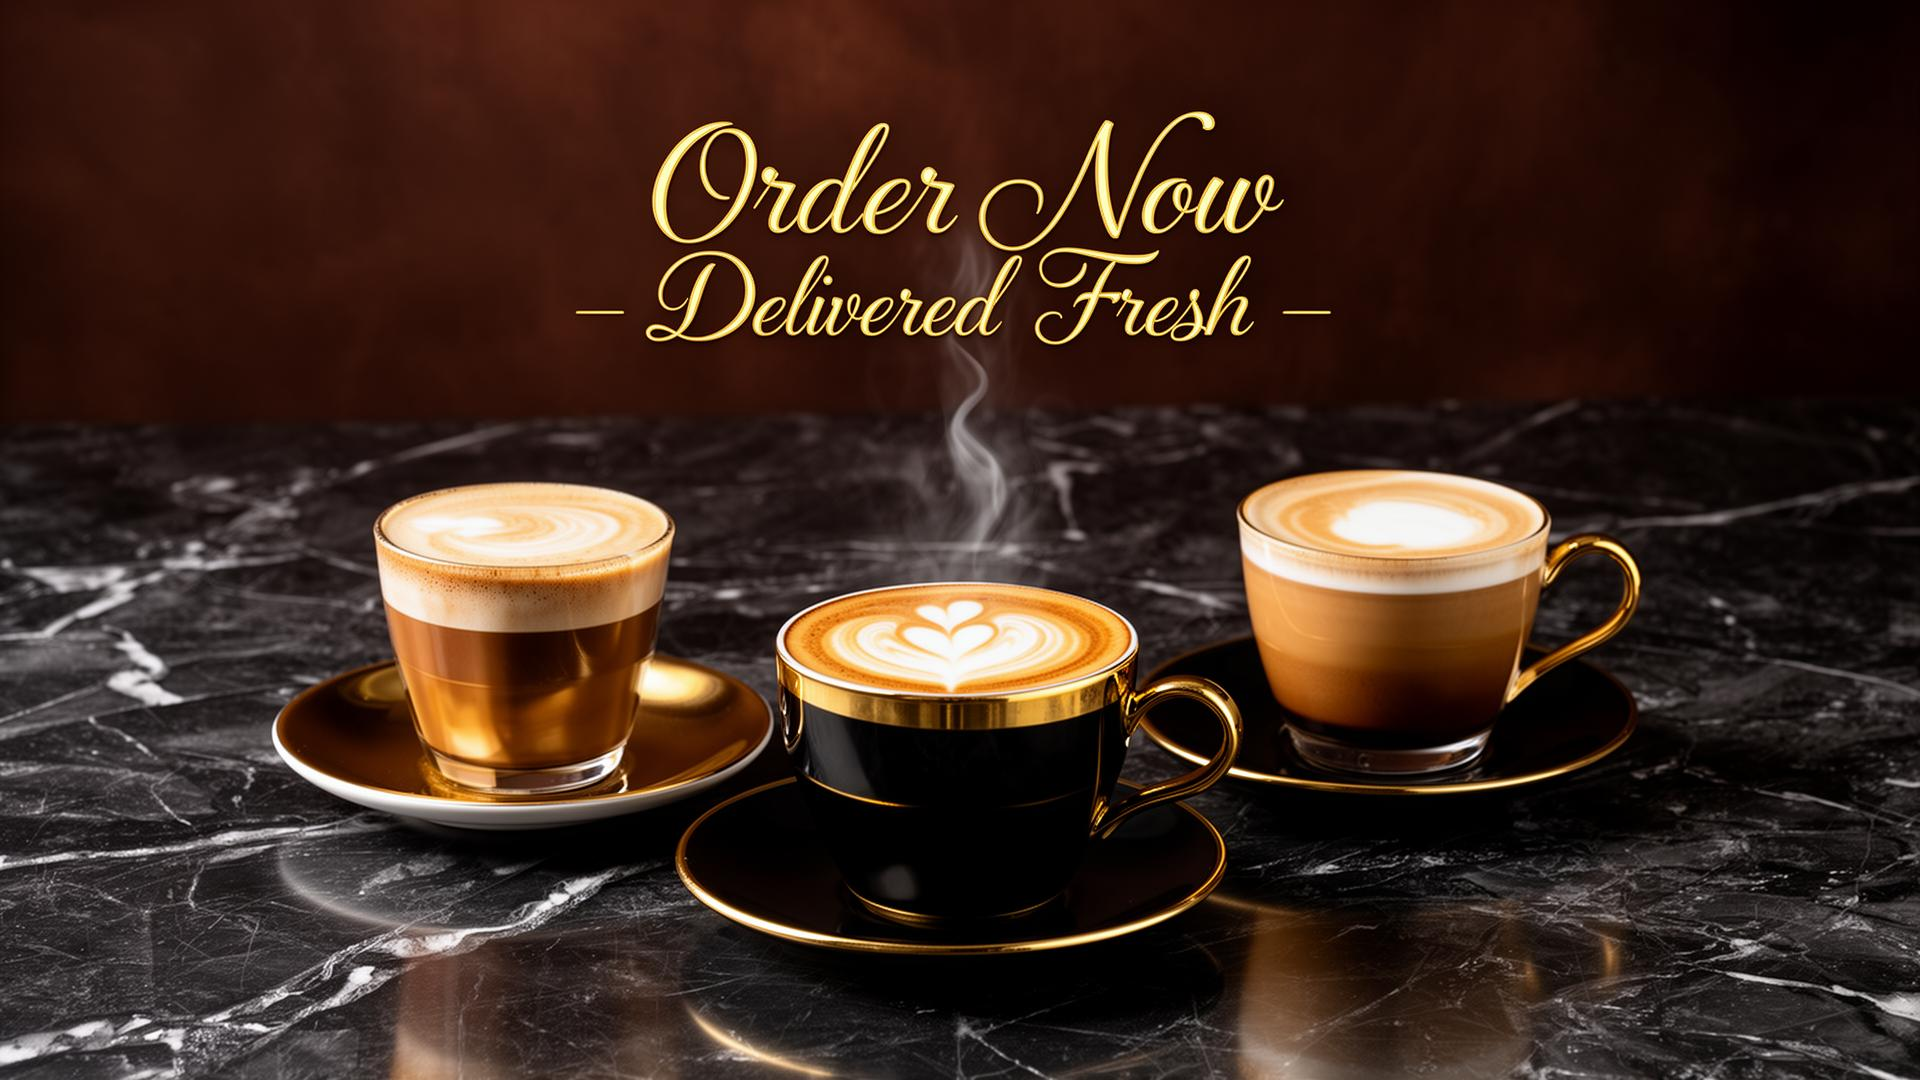
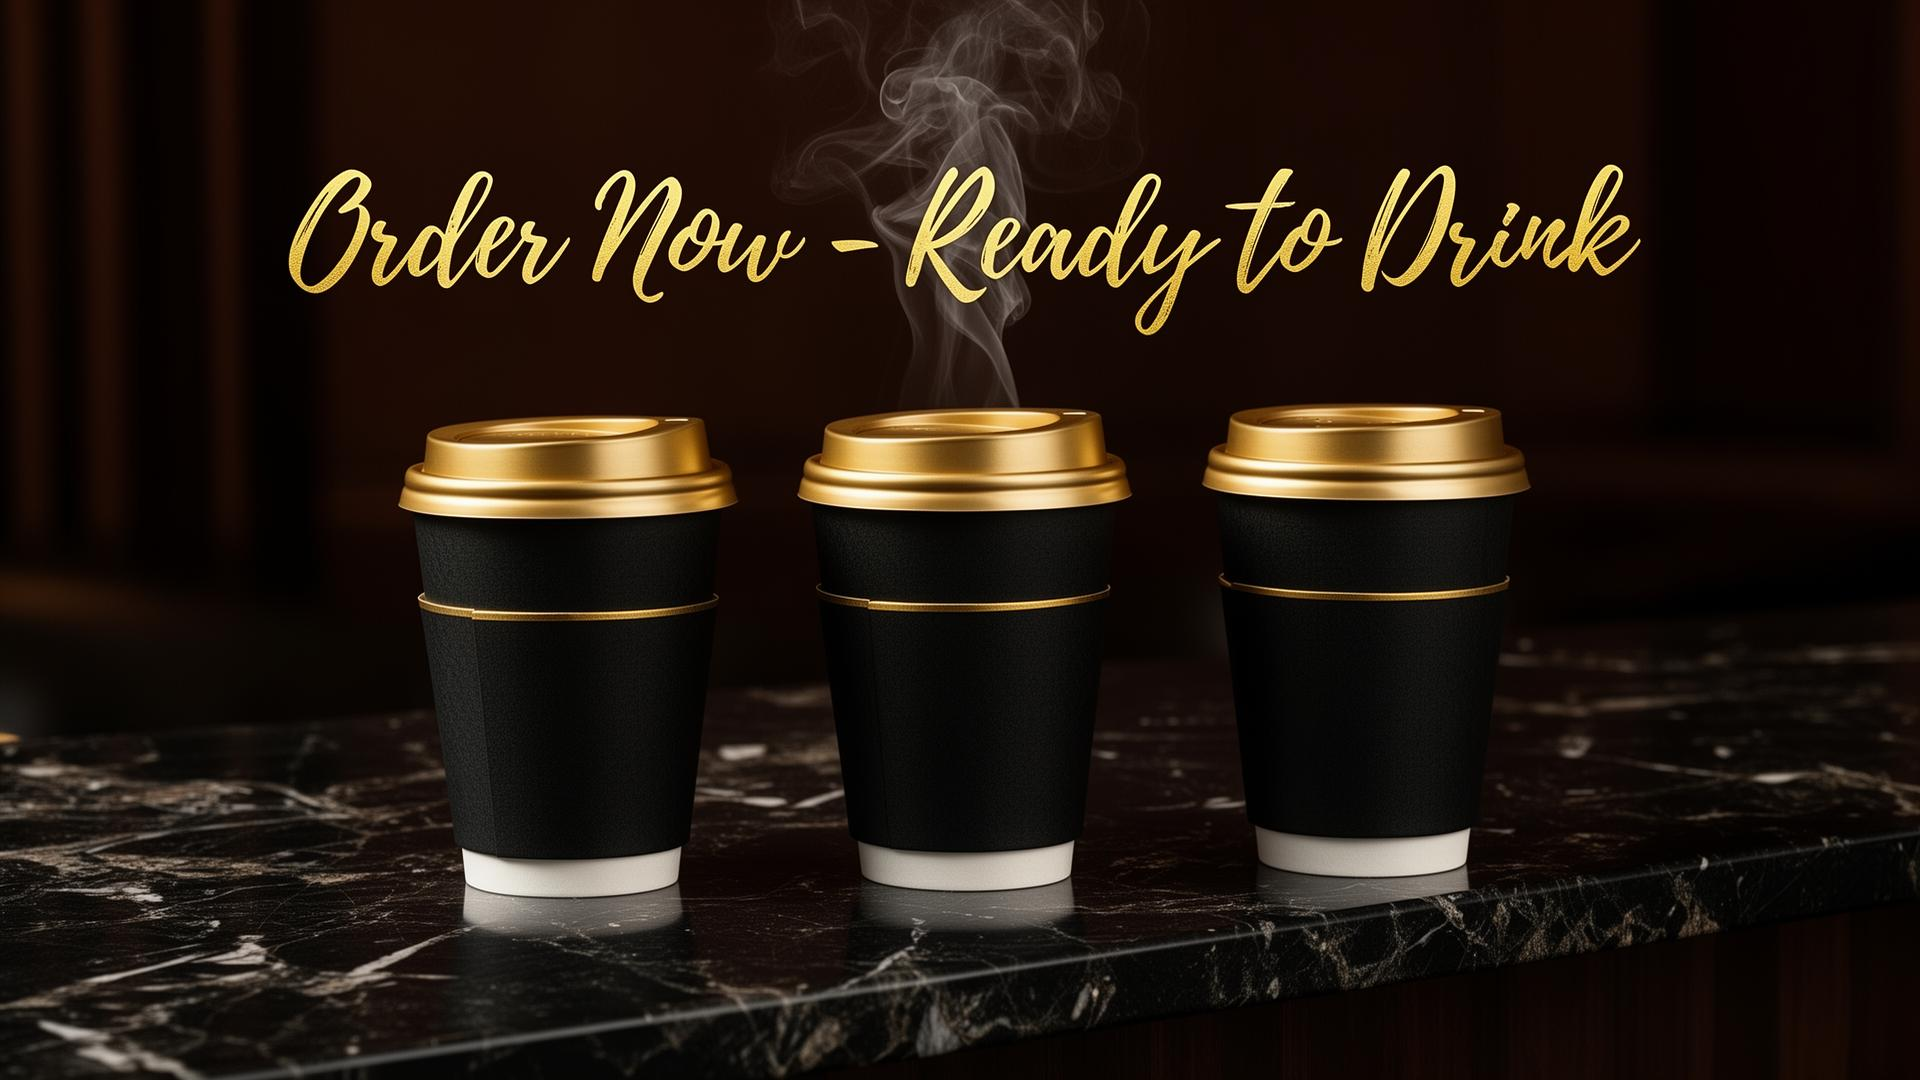
Changes

diff --git a/src/data/products.ts b/src/data/products.ts
@@ -1,6 +1,10 @@
 import espressoImage from "@/assets/expresso.png";
 import darkRoastImage from "@/assets/dark-roast-coffee.png";
 import mediumRoastImage from "@/assets/medium-roast-coffee.png";
+import takeawayEspresso from "@/assets/takeaway-espresso.png";
+import takeawayCappuccino from "@/assets/takeaway-cappuccino.png";
+import takeawayIced from "@/assets/takeaway-iced.png";
+import takeawayMocha from "@/assets/takeaway-mocha.png";
 import { Product } from "@/contexts/CartContext";
 
 export const products: Product[] = [
@@ -33,14 +37,14 @@ export const products: Product[] = [
   },
 ];
 
-// Ready-made coffee drinks for delivery
+// Ready-to-drink coffee in takeaway cups
 export const readyMadeDrinks: Product[] = [
   {
     id: "espresso-shot",
     name: "Classic Espresso",
     description: "Double shot of our signature espresso blend. Bold, rich, and perfectly extracted.",
     price: 4.99,
-    image: espressoImage,
+    image: takeawayEspresso,
     weight: "60ml",
     category: "ready-made",
   },
@@ -49,7 +53,7 @@ export const readyMadeDrinks: Product[] = [
     name: "Creamy Cappuccino",
     description: "Silky steamed milk and velvety foam atop our premium espresso. A classic Italian indulgence.",
     price: 6.99,
-    image: darkRoastImage,
+    image: takeawayCappuccino,
     weight: "350ml",
     category: "ready-made",
   },
@@ -58,7 +62,7 @@ export const readyMadeDrinks: Product[] = [
     name: "Caffè Latte",
     description: "Smooth espresso with steamed milk and a light layer of foam. Creamy and comforting.",
     price: 6.49,
-    image: mediumRoastImage,
+    image: takeawayCappuccino,
     weight: "400ml",
     category: "ready-made",
   },
@@ -67,7 +71,7 @@ export const readyMadeDrinks: Product[] = [
     name: "Iced Americano",
     description: "Chilled espresso with cold water over ice. Refreshing and bold for warm days.",
     price: 5.49,
-    image: espressoImage,
+    image: takeawayIced,
     weight: "450ml",
     category: "ready-made",
   },
@@ -76,7 +80,7 @@ export const readyMadeDrinks: Product[] = [
     name: "Chocolate Mocha",
     description: "Rich espresso blended with premium chocolate and steamed milk. Topped with whipped cream.",
     price: 7.49,
-    image: darkRoastImage,
+    image: takeawayMocha,
     weight: "400ml",
     category: "ready-made",
   },
@@ -85,7 +89,7 @@ export const readyMadeDrinks: Product[] = [
     name: "Cold Brew Coffee",
     description: "Slow-steeped for 24 hours for a smooth, naturally sweet flavor with low acidity.",
     price: 5.99,
-    image: mediumRoastImage,
+    image: takeawayIced,
     weight: "500ml",
     category: "ready-made",
   },
